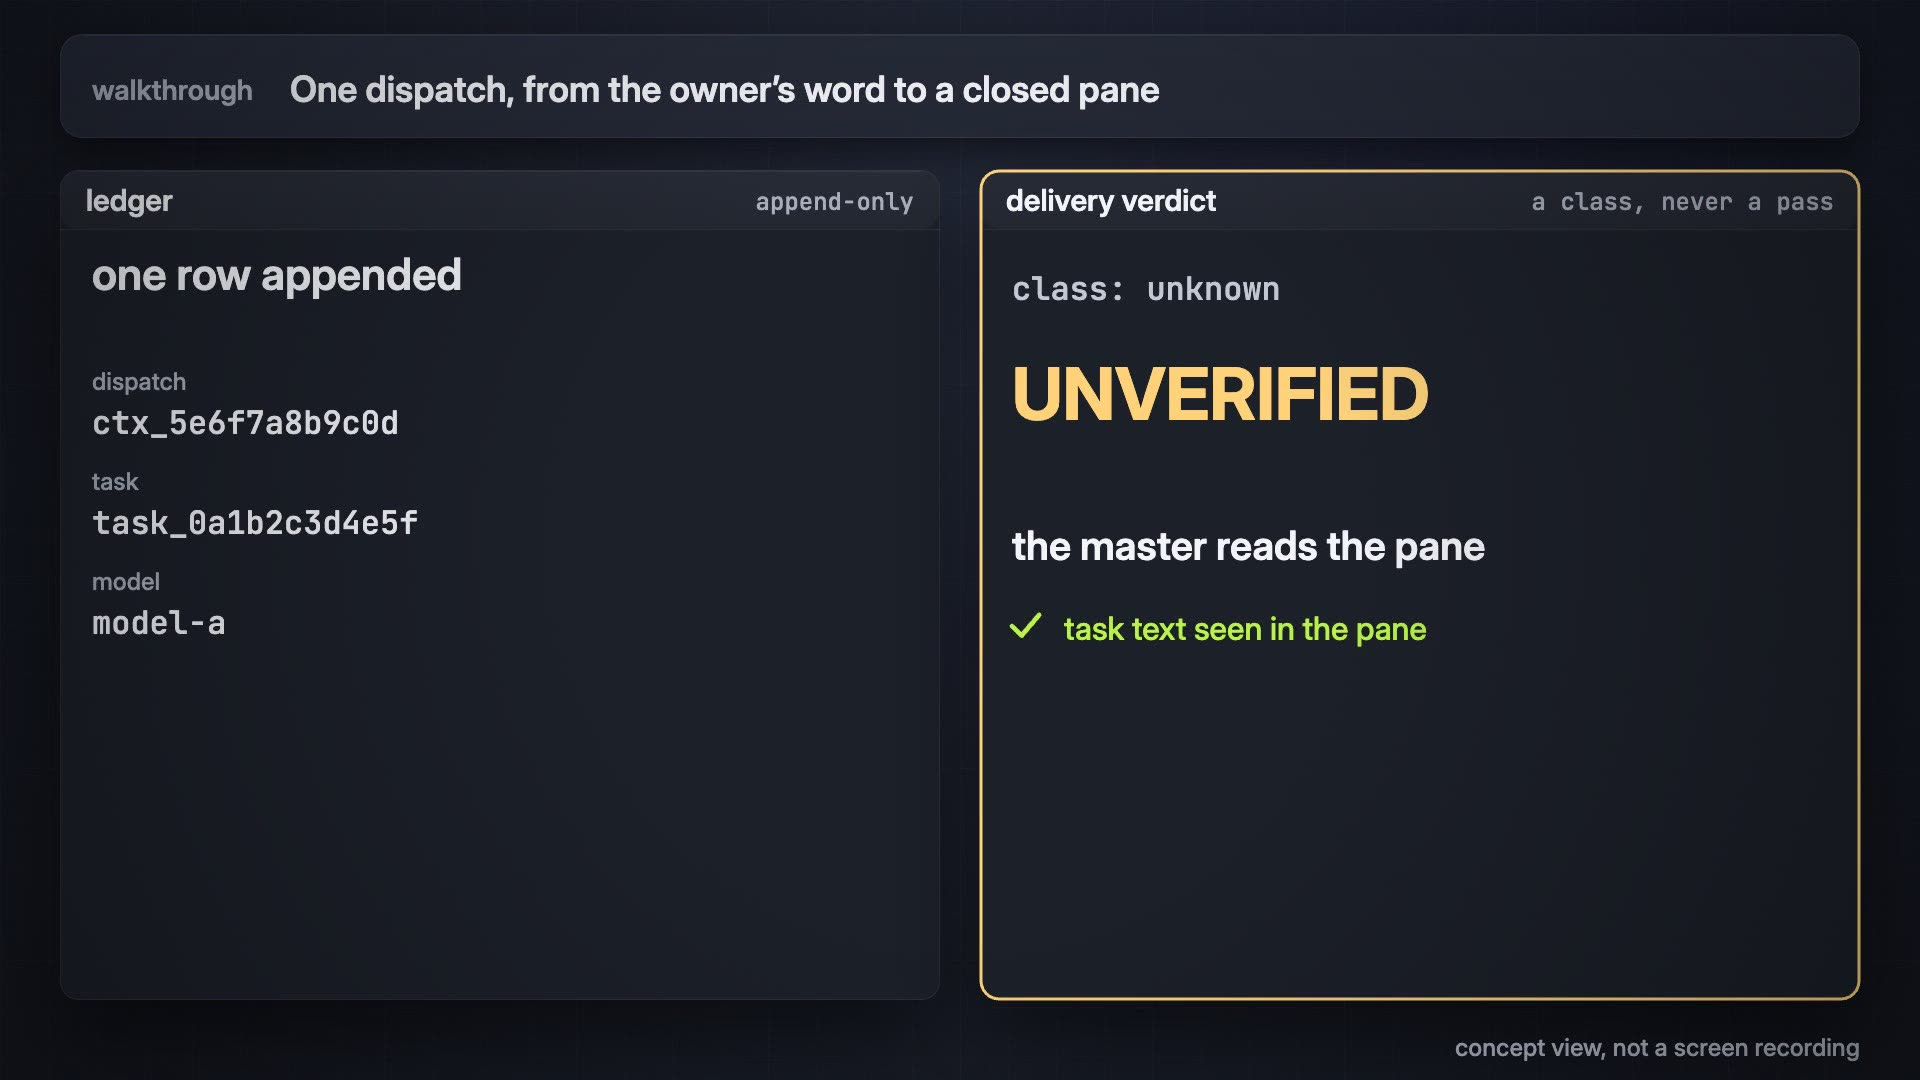
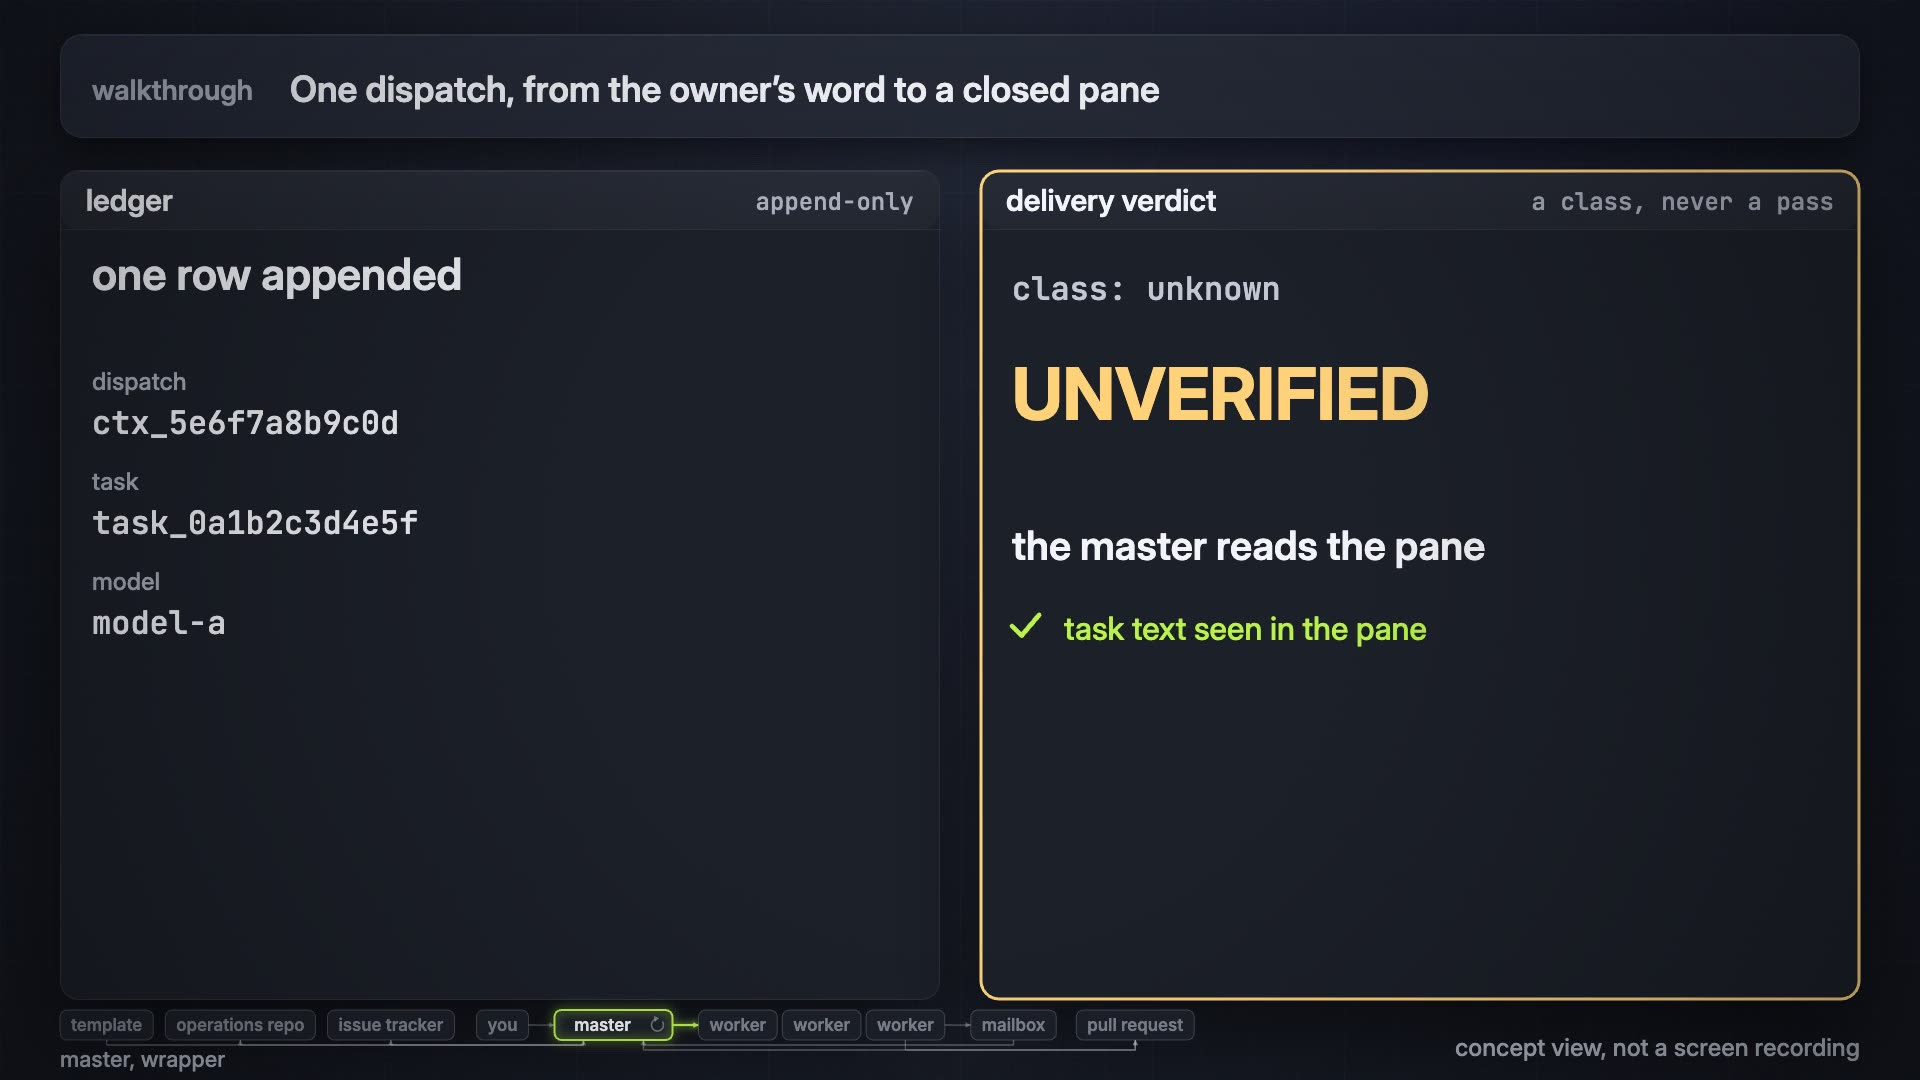
docs: the three walkthrough films carry a where-we-are map of the system

Changed region(s): [[0.0312, 0.9167, 0.625, 1.0]]

diff --git a/walkthroughs/01-one-dispatch.md b/walkthroughs/01-one-dispatch.md
@@ -8,7 +8,7 @@
 
 <p align="center"><sub>The player below shows in a web browser. In the GitHub mobile app, tap the picture; the release page has the film.</sub></p>
 
-https://github.com/user-attachments/assets/afbb6bf0-8bc8-4366-bded-4bd76df61685
+https://github.com/user-attachments/assets/c5bf6c3e-26fd-49a9-ab16-000ae0c45c6b
 
 Fifteen steps. The diagram below moves a ring from step to step; every label is readable with the animation off.
 

diff --git a/walkthroughs/02-one-master-generation.md b/walkthroughs/02-one-master-generation.md
@@ -8,7 +8,7 @@
 
 <p align="center"><sub>The player below shows in a web browser. In the GitHub mobile app, tap the picture; the release page has the film.</sub></p>
 
-https://github.com/user-attachments/assets/cf8a11d4-1156-476d-877f-16cd4a2e36f8
+https://github.com/user-attachments/assets/d7d2b834-7758-4484-bdf6-8d40ccf25b1e
 
 Eleven steps, and the last one points back at the first.
 

diff --git a/walkthroughs/03-one-template-upgrade.md b/walkthroughs/03-one-template-upgrade.md
@@ -8,7 +8,7 @@
 
 <p align="center"><sub>The player below shows in a web browser. In the GitHub mobile app, tap the picture; the release page has the film.</sub></p>
 
-https://github.com/user-attachments/assets/0089c0e1-ae58-46fb-9b35-0ef68a3841fc
+https://github.com/user-attachments/assets/fcba9389-34a8-4b3a-8ffd-a55818dc7236
 
 Twelve steps.
 
